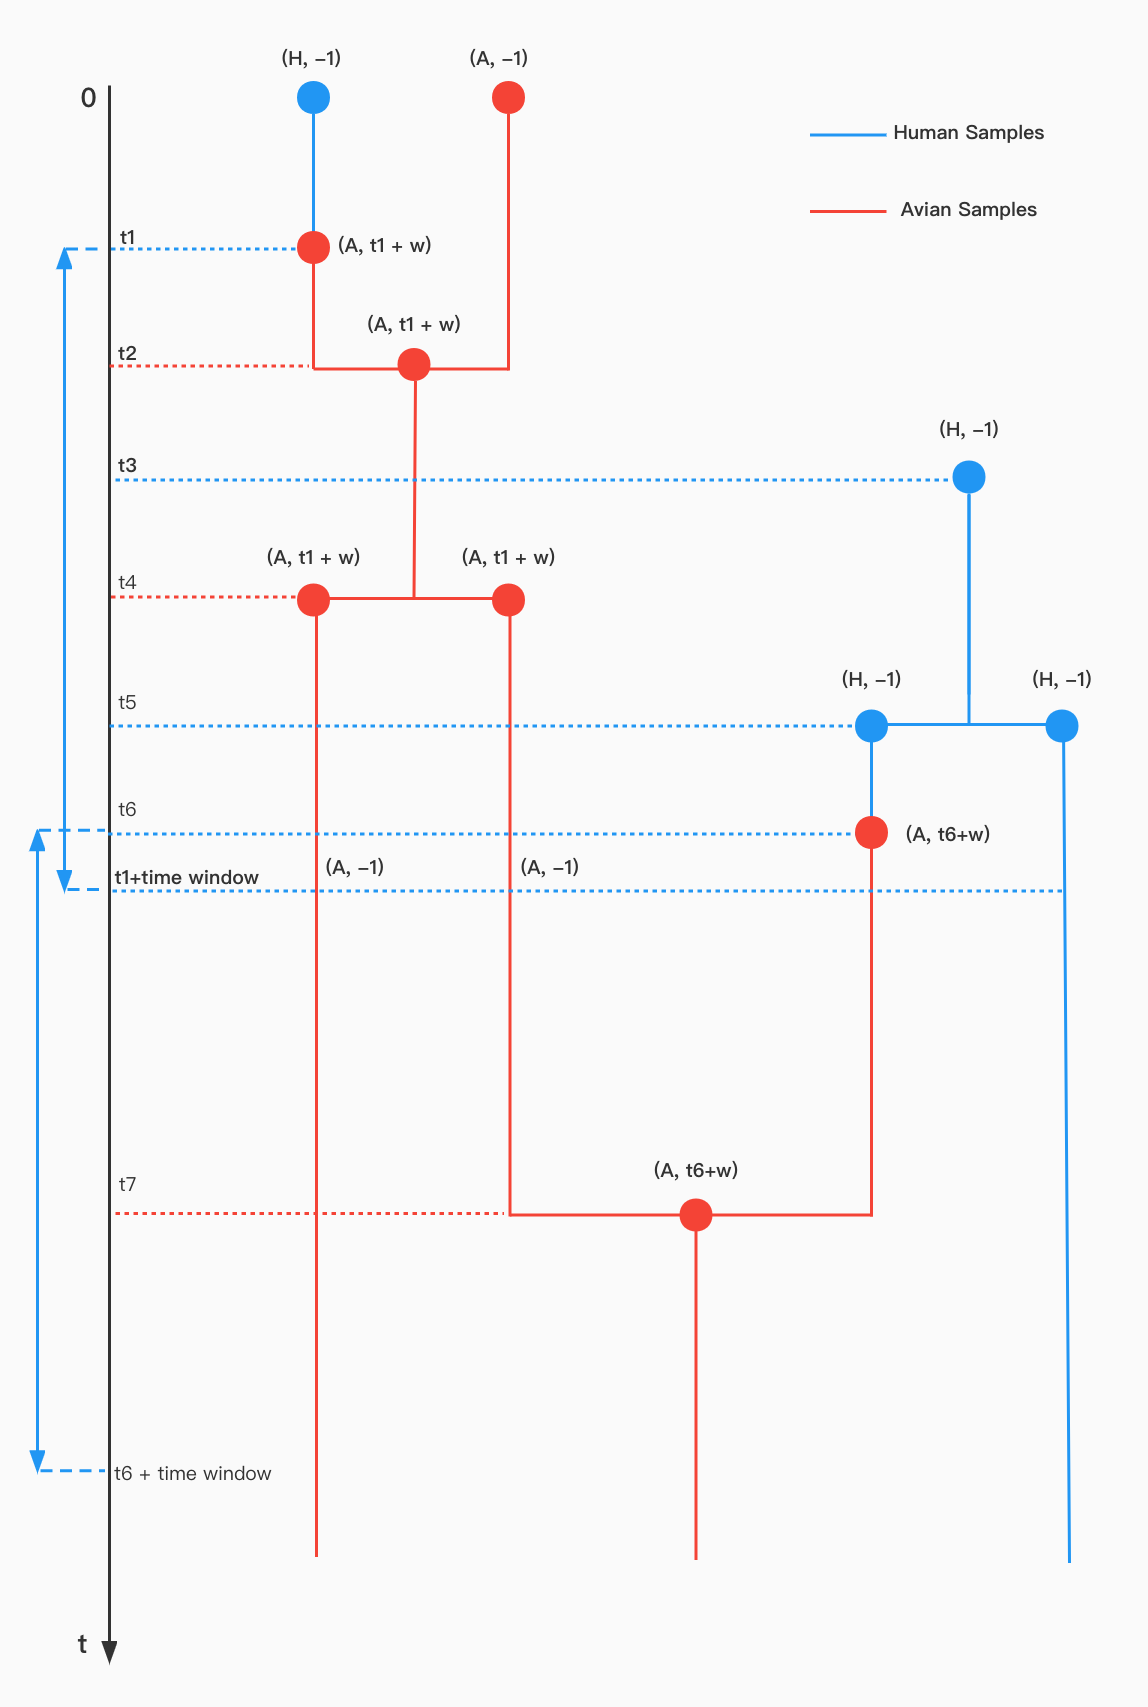
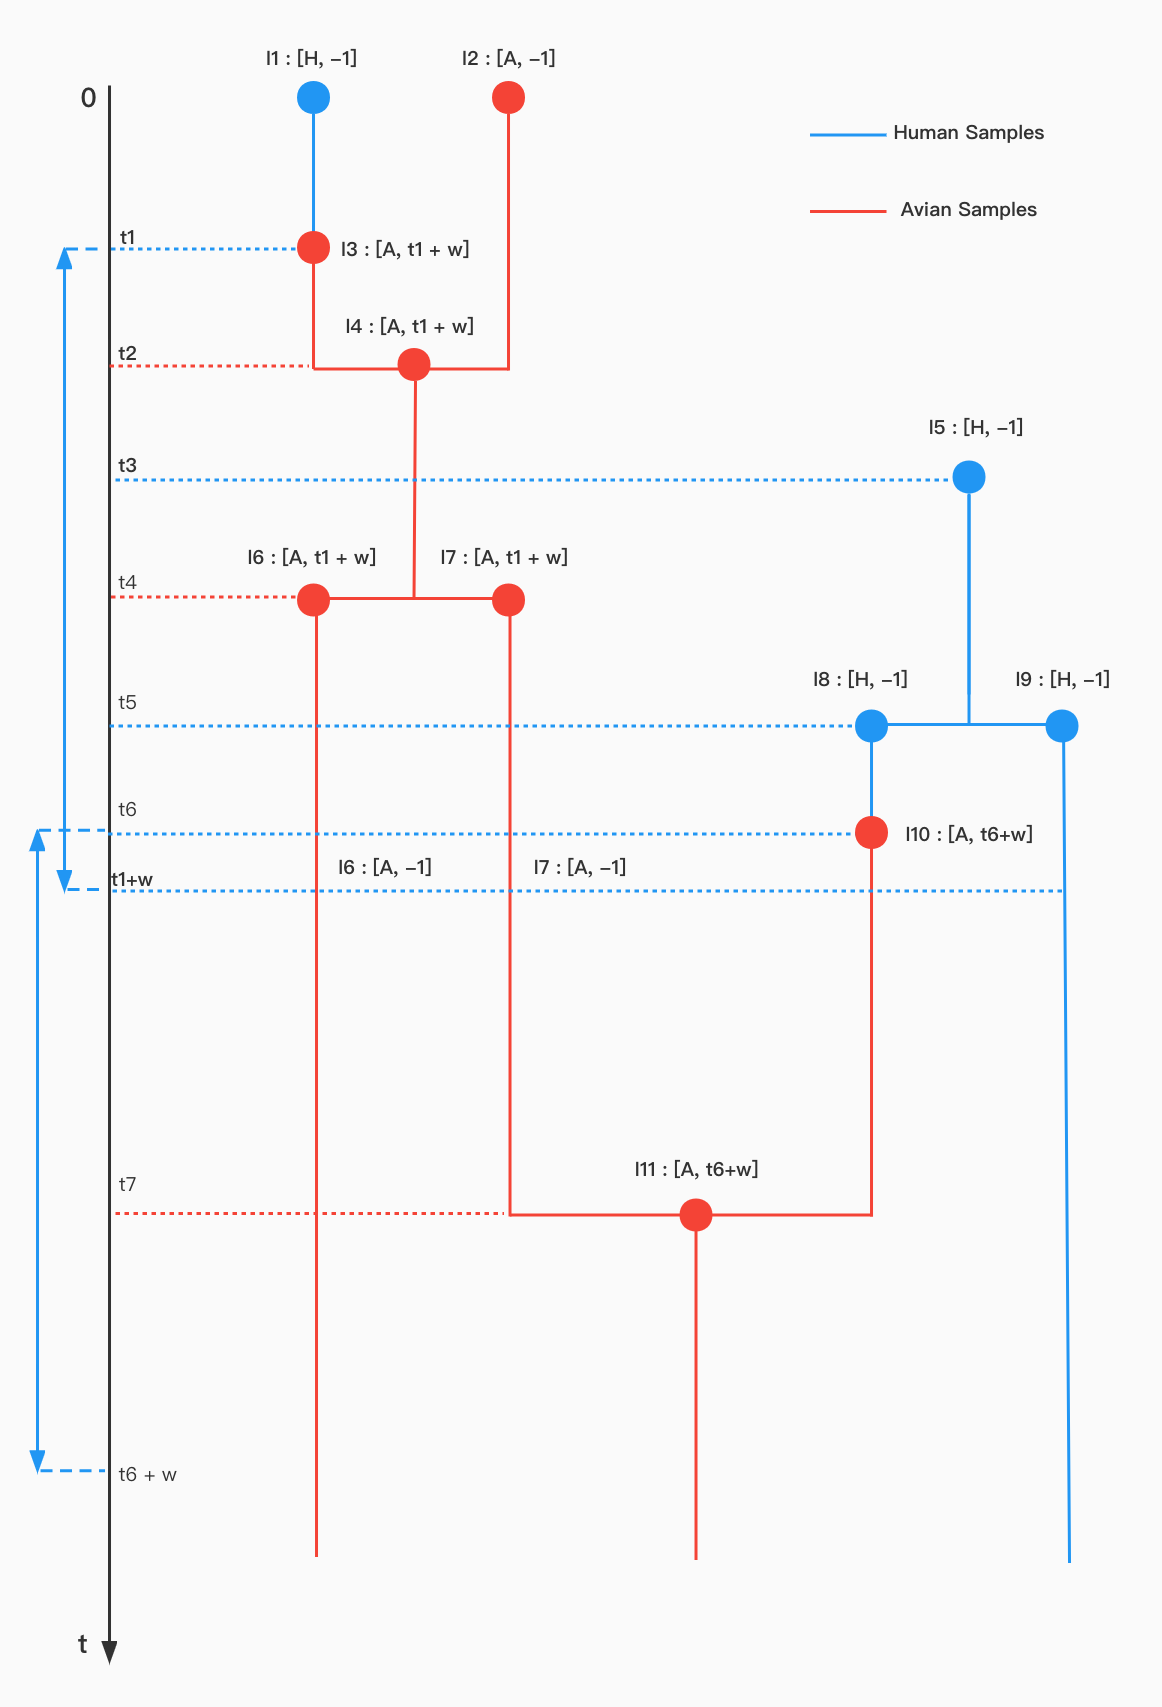
Updated_figure

diff --git a/_posts/2022-12-11-reassortment-rate-and-migration-rate.md b/_posts/2022-12-11-reassortment-rate-and-migration-rate.md
@@ -60,8 +60,15 @@ Since at the sampling time, no migration event can happen, we set the initial ti
 
 With the introduction of the time window, we have to modify how to calculate the time until next reassortment event. Instead of directly using $\rho_ak_a$, we have to divide $k_a$ into two parts $k_{a1}$ and $k_{a2}$ where $k_{a1}$ is the number of lineages of type $a$ that is not in a time window, and $k_{a2} = k_a - k_{a1}$ is the number of lineages of type $a$ that is currently inside a time window. Now, we then model the time until the next reassortment event using an exponential distribution of rate $\rho_ak_{a1} + \rho_aS_ak_{a2}$ where $S_a$ is the reassortment scalar of type $a$ when its lineage is in a time window. Since we do not scale migration and coalescent rate, the time until the next migration event and the time until the next coalescent event are modeled using the same distribution described above. Updated rules regarding the parent(s) of these three kinds of events are described using an example of 3 lineages shown in the figure below. 
 
+![](https://github.com/ChenxiNie/ChenxiNie.github.io/blob/master/images/Simulation_with_Time_Window.jpg?raw=true)
 
+Going backward in time we have:
 
-
+1. At $t=0$, there are two samples, one human $l_1=[H, -1]$ and one avian $l_2[A, -1]$. Since we did not change the modeling of ancestral segments, $C{(l_i)}$ is omitted here for simplicity. 
+2. At $t1$, the human sample migrated to avian. Thus we have to change its type from Human to Avian and then we open a time window of length $w$ and update the time window for this sample. This means we update $l_1=[H,-1]$ to $l_3=[A, t1 + w]$. We then keep track of this lineage $l_3$ and scale its reassortment rate by a constant factor $S$.
+3. At $t2$, a coalescent event happened between $l_2$ and $l_3$. Here, we define that if one child lineage in the coalescent event is in a time window, then the parent lineage is also in a time window and the time window of that parent lineage is $\max(w_1,w_2)$ where $w_1$ and $w_2$ are the time windows of the two children. With that, the parent of $l_2$ and $l_3$ is a lineage with type $A$ and time window $\max(t1+w, -1) = t1+w$, i.e. $l_4 = [A, t1+w]$.
+4. At $t3$, sampling event happened and another human sample $l_5 = [H, -1]$ was introduced. 
+5. At $t4$, a reassortment event happened. For reassortment events, we define that the two parent lineage shares the same time window as the child lineage. Here, lineage $l_4 = [A, t1+w]$, so its two parents $l_6$ and $l_7$ are both type A and have their time windows set to $t1+w$. 
+6. At $t5$, another reassortment event happened, but this time, lineage $l_5$ is not in a time window. So, the parents of $l_5$, $l_6$ and $l_7$ are not in the   
 
 
